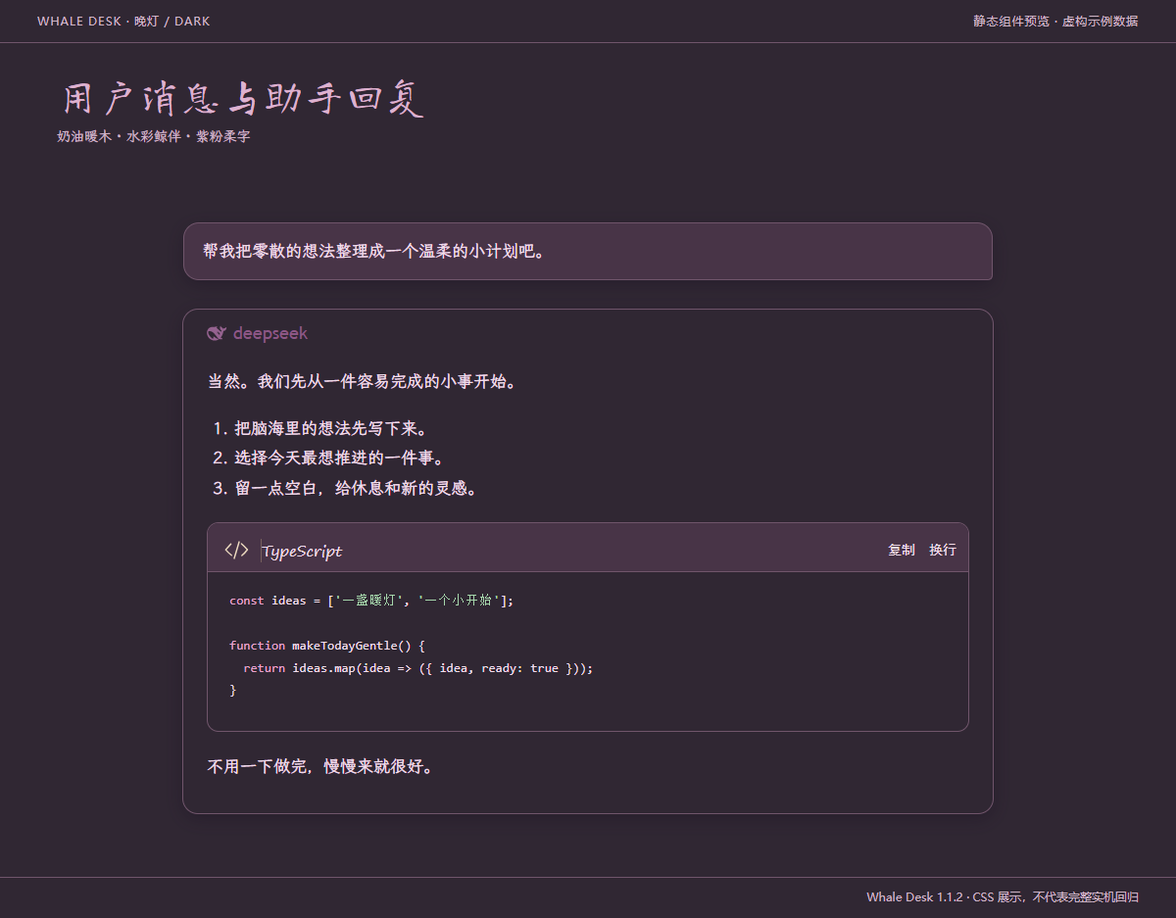
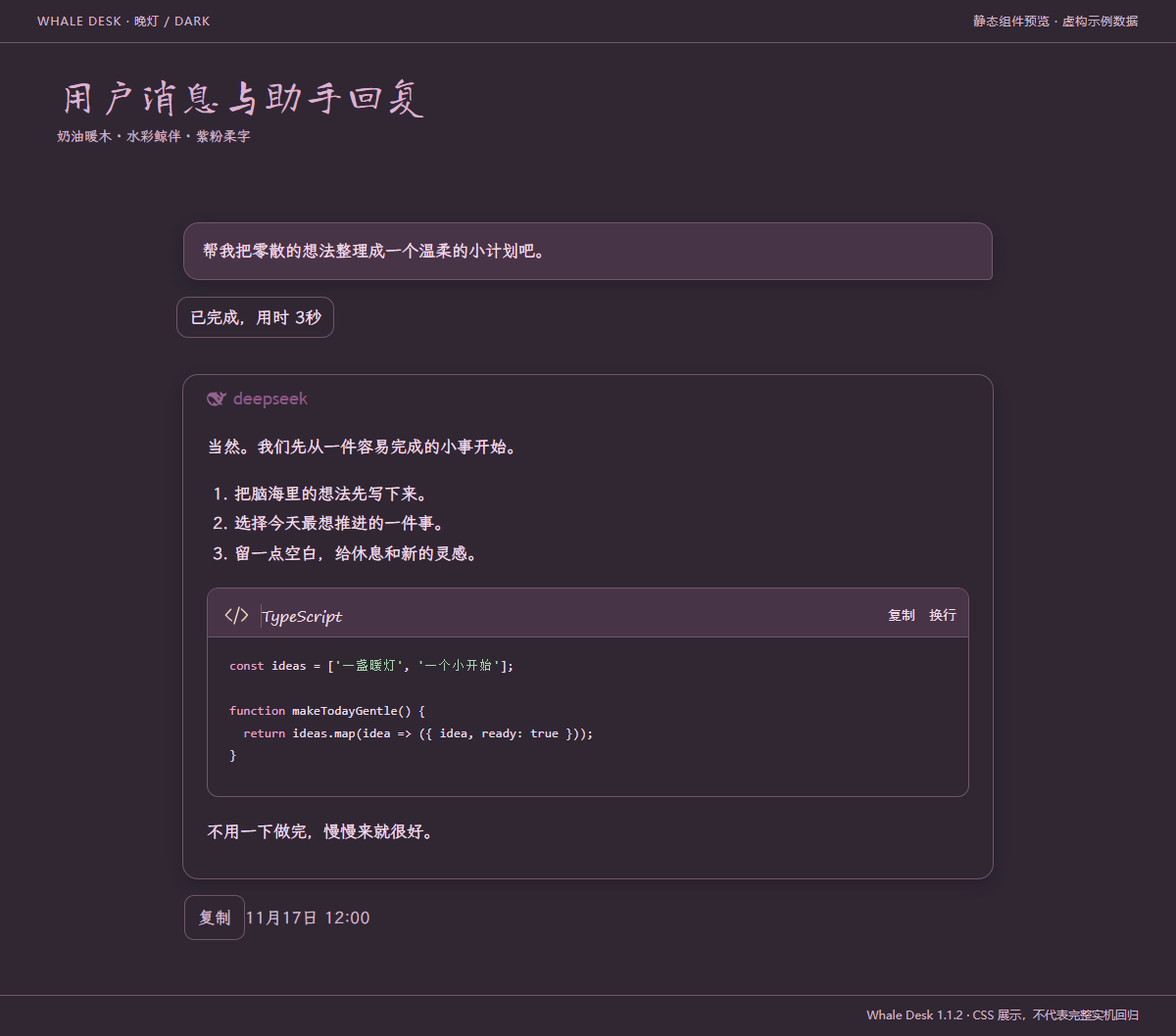
fix(skins): improve wallpaper contrast and refresh native review evidence

diff --git a/skins/whale-desk/patches.css b/skins/whale-desk/patches.css
@@ -6665,9 +6665,9 @@ html body:is([data-ds-dark-theme],:not([data-ds-dark-theme])) [data-conversation
  inset:0!important;background:url("assets/desk/home.png") center/100% 100% no-repeat!important;
  opacity:1!important;border-radius:0!important;filter:none!important;
 }
-html body[data-ds-dark-theme] [data-conversation-region="chat"]::before {background-image:linear-gradient(#241a2caa,#241a2cd9),url("assets/desk/home.png")!important;}
+html body[data-ds-dark-theme] [data-conversation-region="chat"]::before {background-image:linear-gradient(#241a2c66,#241a2c88),url("assets/desk/home.png")!important;}
 /* Soften wallpaper behind actual messages; keep the welcome illustration fully visible. */
-html body [data-conversation-region="chat"]:has([data-chat-flow-kind])::before {opacity:.22!important;}
+html body [data-conversation-region="chat"]:has([data-chat-flow-kind])::before {opacity:.45!important;}
 html body .Dc7zOa_headerBlank {min-height:40px!important;background:transparent!important;border:0!important;box-shadow:none!important;}
 html body:is([data-ds-dark-theme],:not([data-ds-dark-theme])) .Dc7zOa_header {background:var(--desk-paper)!important;border-bottom:1px solid var(--desk-line)!important;}
 html body .Dc7zOa_crumbCurrent {background:var(--desk-soft)!important;}
@@ -6967,7 +6967,7 @@ html body:is([data-ds-dark-theme],:not([data-ds-dark-theme])) [data-sidebar-righ
 /* 1.1.1: dark welcome must outrank the :has(headerBlank) wallpaper rule. */
 html body[data-ds-dark-theme][data-ds-dark-theme] [data-conversation-region="chat"]::before,
 html body[data-ds-dark-theme][data-ds-dark-theme] [data-conversation-region="chat"]:has(> .Dc7zOa_headerBlank)::before {
- background-image:linear-gradient(#241a2caa,#241a2cd9),url("assets/desk/home.png")!important;
+ background-image:linear-gradient(#241a2c66,#241a2c88),url("assets/desk/home.png")!important;
 }
 /* Keep long decorative copy away from native header controls on narrow windows. */
 html body:is([data-ds-dark-theme],:not([data-ds-dark-theme])) .Dc7zOa_headerBlank::after {
@@ -7015,4 +7015,23 @@ html body[data-ds-dark-theme] :is(.QSKnSa_frequency,.QSKnSa_status,.QSKnSa_fallb
 }
 @media(prefers-reduced-motion:reduce) {
  html body *,html body *::before,html body *::after {animation-duration:.01ms!important;animation-iteration-count:1!important;transition-duration:.01ms!important;scroll-behavior:auto!important;}
+}
+
+/* 1.1.3 review: preserve the illustration and separate native completion text from it. */
+html body[data-ds-dark-theme][data-ds-dark-theme] [data-conversation-region="chat"]:has([data-chat-flow-kind])::before {opacity:.78!important;}
+html body:is([data-ds-dark-theme],:not([data-ds-dark-theme])) [data-conversation-region="chat"] button[data-turn-process] {
+ position:relative!important;isolation:isolate;z-index:1;
+ width:fit-content!important;max-width:100%!important;min-height:32px;
+ padding:6px 12px!important;margin-block:8px!important;
+ background:var(--desk-paper)!important;color:var(--desk-ink)!important;
+ border:1px solid var(--desk-line)!important;border-radius:12px!important;
+ opacity:1!important;box-shadow:0 2px 8px #442b4410;
+}
+html body [data-conversation-region="chat"] button[data-turn-process]::before,
+html body [data-conversation-region="chat"] button[data-turn-process]::after {content:none!important;display:none!important;}
+
+/* Message timestamps and actions must not borrow contrast from the wallpaper. */
+html body:is([data-ds-dark-theme],:not([data-ds-dark-theme])) [data-conversation-region="chat"] .xD_KDq_actions {
+ background:var(--desk-paper)!important;color:var(--desk-muted)!important;
+ width:fit-content;max-width:100%;padding:4px 8px;border-radius:10px;
 }

diff --git a/skins/whale-desk/DESK-OVERRIDES.css b/skins/whale-desk/DESK-OVERRIDES.css
@@ -55,9 +55,9 @@ html body:is([data-ds-dark-theme],:not([data-ds-dark-theme])) [data-conversation
  inset:0!important;background:url("assets/desk/home.png") center/100% 100% no-repeat!important;
  opacity:1!important;border-radius:0!important;filter:none!important;
 }
-html body[data-ds-dark-theme] [data-conversation-region="chat"]::before {background-image:linear-gradient(#241a2caa,#241a2cd9),url("assets/desk/home.png")!important;}
+html body[data-ds-dark-theme] [data-conversation-region="chat"]::before {background-image:linear-gradient(#241a2c66,#241a2c88),url("assets/desk/home.png")!important;}
 /* Soften wallpaper behind actual messages; keep the welcome illustration fully visible. */
-html body [data-conversation-region="chat"]:has([data-chat-flow-kind])::before {opacity:.22!important;}
+html body [data-conversation-region="chat"]:has([data-chat-flow-kind])::before {opacity:.45!important;}
 html body .Dc7zOa_headerBlank {min-height:40px!important;background:transparent!important;border:0!important;box-shadow:none!important;}
 html body:is([data-ds-dark-theme],:not([data-ds-dark-theme])) .Dc7zOa_header {background:var(--desk-paper)!important;border-bottom:1px solid var(--desk-line)!important;}
 html body .Dc7zOa_crumbCurrent {background:var(--desk-soft)!important;}
@@ -357,7 +357,7 @@ html body:is([data-ds-dark-theme],:not([data-ds-dark-theme])) [data-sidebar-righ
 /* 1.1.1: dark welcome must outrank the :has(headerBlank) wallpaper rule. */
 html body[data-ds-dark-theme][data-ds-dark-theme] [data-conversation-region="chat"]::before,
 html body[data-ds-dark-theme][data-ds-dark-theme] [data-conversation-region="chat"]:has(> .Dc7zOa_headerBlank)::before {
- background-image:linear-gradient(#241a2caa,#241a2cd9),url("assets/desk/home.png")!important;
+ background-image:linear-gradient(#241a2c66,#241a2c88),url("assets/desk/home.png")!important;
 }
 /* Keep long decorative copy away from native header controls on narrow windows. */
 html body:is([data-ds-dark-theme],:not([data-ds-dark-theme])) .Dc7zOa_headerBlank::after {
@@ -405,4 +405,23 @@ html body[data-ds-dark-theme] :is(.QSKnSa_frequency,.QSKnSa_status,.QSKnSa_fallb
 }
 @media(prefers-reduced-motion:reduce) {
  html body *,html body *::before,html body *::after {animation-duration:.01ms!important;animation-iteration-count:1!important;transition-duration:.01ms!important;scroll-behavior:auto!important;}
+}
+
+/* 1.1.3 review: preserve the illustration and separate native completion text from it. */
+html body[data-ds-dark-theme][data-ds-dark-theme] [data-conversation-region="chat"]:has([data-chat-flow-kind])::before {opacity:.78!important;}
+html body:is([data-ds-dark-theme],:not([data-ds-dark-theme])) [data-conversation-region="chat"] button[data-turn-process] {
+ position:relative!important;isolation:isolate;z-index:1;
+ width:fit-content!important;max-width:100%!important;min-height:32px;
+ padding:6px 12px!important;margin-block:8px!important;
+ background:var(--desk-paper)!important;color:var(--desk-ink)!important;
+ border:1px solid var(--desk-line)!important;border-radius:12px!important;
+ opacity:1!important;box-shadow:0 2px 8px #442b4410;
+}
+html body [data-conversation-region="chat"] button[data-turn-process]::before,
+html body [data-conversation-region="chat"] button[data-turn-process]::after {content:none!important;display:none!important;}
+
+/* Message timestamps and actions must not borrow contrast from the wallpaper. */
+html body:is([data-ds-dark-theme],:not([data-ds-dark-theme])) [data-conversation-region="chat"] .xD_KDq_actions {
+ background:var(--desk-paper)!important;color:var(--desk-muted)!important;
+ width:fit-content;max-width:100%;padding:4px 8px;border-radius:10px;
 }

diff --git a/docs/NATIVE-PREVIEW.md b/docs/NATIVE-PREVIEW.md
@@ -2,41 +2,25 @@
 
 [项目首页](../README.md) · [完整测试记录](TESTING.md) · [静态组件图册](COMPONENTS.md) · [投稿状态](MARKET-SUBMISSION.md)
 
-更新于 2026-11-08，Whale Desk 1.1.2。以下图片来自 Windows DSH 0.2.1-rc.2 / Skin Center 0.4.8 的真实窗口，使用正式 `whale-desk` 目录。账户侧栏在保存前收起，图片未修图。浮动桌宠由独立插件提供，不包含在皮肤安装包中。
+2026-11-17，Whale Desk 1.1.3，Windows DSH 0.2.1-rc.2 / Skin Center 0.4.8。
+以下图片来自正式 `whale-desk` 目录正常重启后的真实窗口，1282 × 822；桌宠已关闭，账户及历史侧栏已收起，没有其他浮窗。JPEG 为原始捕获，未修图、未裁切。画面中的鲸鱼娘是皮肤背景插画。
 
-## 浅色恢复后的真实对话
+## 欢迎页
 
-![重启后浅色对话与代码](../evidence/native/light-after-user-restart.jpg)
-
-曾复现“点击浅色后回到深色”。用户重启 DSH 后恢复；随后执行浅色→深色→浅色，界面和保存配置同步更新，关闭设置后观察 88 秒仍保持浅色。这次恢复没有修改运行代码，尚未确定根因，也不能保证问题永不复发。遇到相同现象请按 [FAQ](FAQ.md#点击浅色后又自动回到深色) 排查。
-
-## 深色与模型菜单
-
-| 深色对话 | 模型菜单 |
+| 浅色 | 深色 |
 | --- | --- |
-| ![正式目录冷启动后的深色对话](../evidence/native/chat-dark-after-restart.jpg) | ![深色模型菜单](../evidence/native/chat-model-menu-dark.jpg) |
+| ![浅色欢迎页](../evidence/native/review-20261117/home-light.jpg) | ![深色欢迎页](../evidence/native/review-20261117/home-dark.jpg) |
 
-修复了浅色纹理覆盖深色对话背景和顶栏的问题，并在正常退出、重新启动后确认生效。模型菜单打开、Escape 关闭和推理等级 High→Low→High 已操作验证；这不代表逐一调用过全部模型。
+## 聊天页
 
-## 954 像素窄窗口
-
-![954 像素窗口中的对话和输入区](../evidence/native/narrow-chat-dark.jpg)
-
-窗口尺寸为 954 × 822。侧栏自动收起、手动展开、代码与输入卡重排、模型菜单开关均已操作。展开侧栏时模型按钮文字会截短，完整名称可在菜单读取。更窄尺寸、全部缩放比例和窄窗口实际发送未验收。
-
-## 停止输出与代码显示
-
-| 明确停止生成 | 停止后继续发送与代码换行 |
+| 浅色 | 深色 |
 | --- | --- |
-| ![界面显示已停止](../evidence/native/generation-stopped-dark.jpg) | ![新消息成功及代码换行](../evidence/native/after-stop-code-wrap-dark.jpg) |
+| ![浅色聊天页](../evidence/native/review-20261117/chat-light.jpg) | ![深色聊天页](../evidence/native/review-20261117/chat-dark.jpg) |
 
-180 行代码与表格生成完成；另一次长回复明确停止后，新消息正常完成。超长单行代码的换行开关与 [横向滚动](../evidence/native/code-scroll-dark.jpg) 已操作验证。新消息恢复成功不等于“重试上一轮”或网络重连通过。
+深色背景减轻遮罩，聊天背景保留更多插画；正文、代码、完成提示、时间和消息操作使用独立底色。对话使用先前创建的界面测试会话，本轮没有发起新的模型请求。
 
-## 使用时留意
+截图与运行文件 SHA-256 见 [捕获清单](../evidence/native/review-20261117/manifest.json)。市场正文内的图片与投稿分支证据文件使用同一份字节。
 
-- 桌宠的透明边缘也可能接收点击。窗口缩放、侧栏变化或重启后，检查它是否靠近发送、模型或弹窗按钮；拖到空白处即可重新核验。
-- 覆盖正在使用的 CSS 后，现有窗口可能保留旧样式；先结束任务，再正常重开 DSH。重新应用皮肤不保证立即刷新。
-- 图片展示某个时刻的界面；完整通过项、未测范围和上游测试失败以 [TESTING.md](TESTING.md) 为准。
-- [100 张组件图册](COMPONENTS.md) 采用虚构数据渲染，是静态外观示例，与本页原生操作截图分开记录。
+## 测试边界
 
-更多自动化、任务看板与对话框截图见 [原生证据说明](../evidence/native/README.md)。
+这些截图证明本机此版本的外观，不能证明所有版本、平台、动态桌宠或跨设备同步。历史原生测试保留在 [旧记录](../evidence/native/README.md)，旧截图不作为 1.1.3 的当前视觉证据。浅色自动回退曾在重启后恢复，尚未定位根因。

diff --git a/README.en.md b/README.en.md
@@ -6,13 +6,13 @@
 
 ## Current release and native captures
 
-Status checked 2026-11-17; skin version **1.1.2**. [Market PR #106](https://github.com/zhu1090093659/dsh-skins/pull/106) is closed, not merged or listed. The maintainer invited reopening after character permission evidence and clean current screenshots are supplied. The contributor confirms permission from Alphazerolan for the skin and illustrations; underlying character redistribution remains unverified. This repository is public. [CI and installation candidates](docs/CI-CD.md).
+Status checked 2026-11-17; skin version **1.1.3**. [Market PR #106](https://github.com/zhu1090093659/dsh-skins/pull/106) is closed, not merged or listed. The maintainer invited reopening after character permission evidence and clean current screenshots are supplied. The contributor confirms permission from Alphazerolan for the skin and illustrations; underlying character redistribution remains unverified. This repository is public. [CI and installation candidates](docs/CI-CD.md).
 
 | Light after user restart | Dark after original-path restart |
 | --- | --- |
-| ![Native light conversation](evidence/native/light-after-user-restart.jpg) | ![Native dark conversation](evidence/native/chat-dark-after-restart.jpg) |
+| ![Native light conversation](evidence/native/review-20261117/chat-light.jpg) | ![Native dark conversation](evidence/native/review-20261117/chat-dark.jpg) |
 
-These are native Windows DSH captures with the account sidebar hidden. The separate pet plugin is not bundled. A light-to-dark rollback recovered after the user restarted DSH; a subsequent light/dark/light round trip persisted, with light still visible after 88 seconds. No runtime code was changed for this recovery; the root cause remains unknown. [More native evidence](docs/NATIVE-PREVIEW.md) and [tested limits](docs/TESTING.md).
+These unedited 1.1.3 native Windows captures were taken with the pet disabled and account/history sidebar collapsed. Dark wallpaper masking is lighter; completion and action rows have opaque surfaces. The historical theme rollback recovered after restart; its root cause remains unknown. [Current captures](docs/NATIVE-PREVIEW.md) and [tested limits](docs/TESTING.md).
 
 ## Documentation
 
@@ -64,7 +64,7 @@ Ready-to-import examples: [compact writing](docs/examples/compact-writing.json),
 
 Derived from **DIY Journal 1.14.1** by [Alphazerolan](https://github.com/Alphazerolan/diy-journal-skin). The base implementation and assets match upstream commit `e68820404ee7183b0f9b15d7dd444b9f48e03071`; newer attribution documents have been incorporated. Fourteen inherited illustrations are recorded; the active home illustration is replaced, with the other 13 slots retained and reframed.
 
-CSS covers conversations, menus, task panels, settings and both theme palettes. This is source coverage, not a claim that every interaction is tested. Native loading, the header/brand, composer proportions and usage settings were observed in 1.1.0 on Windows / DSH 0.2.1-rc.2 / Skin Center 0.4.8. Version 1.1.2 adds setting-page identity, dark-surface and configuration-race fixes. Native smoke checks and isolated CSS/browser checks are documented in [TESTING.md](docs/TESTING.md); a complete cross-platform certification is not claimed.
+CSS covers conversations, menus, task panels, settings and both theme palettes. This is source coverage, not a claim that every interaction is tested. Native loading, the header/brand, composer proportions and usage settings were observed in 1.1.0 on Windows / DSH 0.2.1-rc.2 / Skin Center 0.4.8. Version 1.1.3 adds setting-page identity, dark-surface and configuration-race fixes. Native smoke checks and isolated CSS/browser checks are documented in [TESTING.md](docs/TESTING.md); a complete cross-platform certification is not claimed.
 
 Desktop pets are separate DSH packages and are not bundled here or in the upstream skin repository. The upstream visual editor is also a separate project targeting `diy-journal`. Our offline editor does not include its two-photo collage, tape editing or in-app settings entry. Default installation registers no JavaScript hooks; native CSS state fallbacks remain available.
 

diff --git a/README.md b/README.md
@@ -8,15 +8,15 @@
 
 ## 当前版本与实机效果
 
-更新于 **2026-11-08**，皮肤 **1.1.2**。这是 DSH 桌面皮肤，不是 DeepSeek 手机 App 主题。
+更新于 **2026-11-17**，皮肤 **1.1.3**。这是 DSH 桌面皮肤，不是 DeepSeek 手机 App 主题。
 
-**市场投稿：** [#106](https://github.com/zhu1090093659/dsh-skins/pull/106) 已关闭、未合并上架（2026-11-17 核对）；补齐角色许可依据与最新干净截图后可重新打开。Alphazerolan 的皮肤及配图使用许可已由贡献者确认，原角色再分发范围仍待核实。[投稿记录](docs/MARKET-SUBMISSION.md) · [CI/CD 与安装候选包](docs/CI-CD.md)。完整项目仓库已公开。
+**市场投稿：** [#106](https://github.com/zhu1090093659/dsh-skins/pull/106) 已关闭、未合并上架（2026-11-17 核对）；最新干净截图已补齐，角色许可依据完整后再重新打开。Alphazerolan 的皮肤及配图使用许可已由贡献者确认，原角色再分发范围仍待核实。[投稿记录](docs/MARKET-SUBMISSION.md) · [CI/CD 与安装候选包](docs/CI-CD.md)。完整项目仓库已公开。
 
 | 浅色 · 用户重启后恢复并复测 | 深色 · 正式目录冷启动后实测 |
 | --- | --- |
-| ![浅色真实对话](evidence/native/light-after-user-restart.jpg) | ![深色真实对话](evidence/native/chat-dark-after-restart.jpg) |
+| ![浅色真实对话](evidence/native/review-20261117/chat-light.jpg) | ![深色真实对话](evidence/native/review-20261117/chat-dark.jpg) |
 
-以上为 Windows DSH 的原生窗口截图，隐藏账户侧栏后保存；浮动桌宠属于另装插件。浅色曾出现自动回退，用户重启后恢复；随后浅色→深色→浅色及配置保存复测通过，88 秒观察未回退。未为此修改运行代码，根因仍未确认。[实机操作与更多截图](docs/NATIVE-PREVIEW.md) · [故障排查](docs/FAQ.md)。
+以上为 1.1.3 的原生窗口截图，关闭桌宠、收起账户和历史会话侧栏后直接保存，未修图。减轻深色遮罩，并为完成提示、时间和消息操作增加独立底色。[四张最新实机图](docs/NATIVE-PREVIEW.md) · [测试范围](docs/TESTING.md)。浅色自动回退的历史问题在重启后恢复，根因仍未确认。
 
 ## 从这里开始
 
@@ -70,7 +70,7 @@
 
 完整仓库可公开浏览和下载；仅安装皮肤也可查看 [公开皮肤文件与安装说明](https://github.com/Xtsaixuexi/dsh-skins/tree/feat/whale-desk/skins/whale-desk)。
 
-当前仓库版本为 **1.1.2**，包含设置错位、深色菜单和配置切换修复。优先下载下面的当前仓库 ZIP；旧的 v1.1.1 Release 保留原样。[查看验证范围](docs/TESTING.md)。
+当前仓库版本为 **1.1.3**，包含设置错位、深色菜单和配置切换修复。优先下载下面的当前仓库 ZIP；旧的 v1.1.1 Release 保留原样。[查看验证范围](docs/TESTING.md)。
 
 [下载 v1.1.1 预发布版](https://github.com/Xtsaixuexi/whale-desk-skin/releases/tag/v1.1.1)：仅安装请选择 `whale-desk-1.1.1.zip`；完整仓库包另含 DIY 工具和文档。
 
@@ -93,7 +93,7 @@
 | 设置配图 | 账号、通用、模型、插件、预设、归档、Web 插件、皮肤、宠物、工坊、使用统计 |
 | 主题与可访问性 | 浅色／深色配色、键盘焦点、窄屏规则；部分组件保留上游装饰 |
 
-以上是**代码与素材覆盖范围**。1.1.2 已补测正式目录冷启动、真实消息、停止与继续发送、长代码换行/滚动、任务页面及 954 px 窄窗口。11 项工具测试、同一套 42 项浏览器用例在三种 CSS 管线中通过；不能外推为全部宿主功能或跨平台已兼容，详见 [测试记录](docs/TESTING.md)。
+以上是**代码与素材覆盖范围**。1.1.3 复测了正式目录重启、浅深色欢迎页和聊天布局；11 项工具测试、同一套 44 项浏览器用例在三种 CSS 管线中通过。真实发送、停止、长代码滚动和窄窗口等是此前版本的历史测试，不等于本轮全部重测。详见 [测试记录](docs/TESTING.md)。
 
 ## 和 DIY 手账本是什么关系
 

diff --git a/skins/whale-desk/README.md b/skins/whale-desk/README.md
@@ -11,7 +11,7 @@ native sidebar, conversation and workspace layout.
 
 ## Install and update
 
-Skin manifest v2, version 1.1.2. Copy this whole directory to
+Skin manifest v2, version 1.1.3. Copy this whole directory to
 `$DSH_HOME/skins/whale-desk` (default: `~/.dsh/skins/whale-desk`), then choose
 Whale Desk in Settings > Skins. No build, Node.js or Python is needed to use it.
 Back up personal edits first. After replacing an active skin's files, switch to
@@ -23,13 +23,13 @@ the separate DSH pet plugin; this package does not bundle pet animations.
 
 ## Native captures and market status
 
-[Submission #106](https://github.com/zhu1090093659/dsh-skins/pull/106) is closed, not merged or listed (2026-11-17). Character permission evidence and clean current screenshots are still required. The contributor confirms Alphazerolan authorized use of the skin and illustrations; underlying character clearance remains unverified. See NOTICE.
+[Submission #106](https://github.com/zhu1090093659/dsh-skins/pull/106) is closed, not merged or listed (2026-11-17). Clean current screenshots are supplied; character permission evidence remains outstanding. The contributor confirms Alphazerolan authorized use of the skin and illustrations; underlying character clearance remains unverified. See NOTICE.
 
 | Native light | Native dark |
 | --- | --- |
-| ![Light after restart](https://raw.githubusercontent.com/Xtsaixuexi/dsh-skins/a6f98e166712511d47b2213359a227ccf59722a3/evidence/whale-desk/light-after-user-restart.jpg) | ![Dark after restart](https://raw.githubusercontent.com/Xtsaixuexi/dsh-skins/721e478d330eca734a7b560d3d57134be395129d/evidence/whale-desk/chat-dark-after-restart.jpg) |
+| ![Light](preview/native-chat-light.jpg) | ![Dark](preview/native-chat-dark.jpg) |
 
-These Windows DSH captures use the original skin ID, with account sidebar hidden. They are separate from the static catalog previews below. The pet is a separate plugin. Light selection once reverted to dark; a user restart restored operation and a subsequent light/dark/light round trip persisted for the observed interval. Its root cause remains unknown; see [TESTING.md](TESTING.md).
+Unedited 1.1.3 native captures, with the pet disabled and account/history sidebar collapsed. Current verification scope: [TESTING.md](TESTING.md).
 
 ## Preview and validation
 
@@ -56,3 +56,13 @@ clearance remains independently unverified and is disclosed for market review.
 This is not an official DeepSeek theme or an Android/iOS app theme.
 
 Update caveat: Skin Center 0.4.8 may retain old styles at the same path in an existing desktop window. Reapplying is not guaranteed to clear them. Reopen DSH after running tasks finish; original-path cold restart was tested successfully. If theme selection reverts, finish active tasks and restart normally; this is a recovery step, not a proven root-cause fix.
+
+## 来源与授权状态 / Source and permission record
+
+| 内容 / Content | 来源 / Source | 状态 / Status |
+| --- | --- | --- |
+| DIY Journal 1.14.1 皮肤与配图 | [Alphazerolan](https://github.com/Alphazerolan/diy-journal-skin) | Xtsaixuexi 于 2026-11-17 确认团队成员已授权使用；可核验的许可记录待补充 / contributor-reported team permission |
+| 原角色及女仆改造 | 上善 / ZipZipPipe，见 [NOTICE](NOTICE) 所列公开署名 | 原角色再分发许可未独立核验 / underlying character clearance outstanding |
+| Whale Desk 适配、新书桌与花饰 | Xtsaixuexi / OpenAI image generation | 项目自身贡献；不替代第三方角色许可 / project contribution does not grant third-party rights |
+
+版权与来源声明由贡献者负责提供、核验与更正，不转移给市场维护者；这不替代缺失的角色许可。Contributor responsibility is described in NOTICE. Do not treat this submission as market-approved.

diff --git a/skins/whale-desk/README.zh.md b/skins/whale-desk/README.zh.md
@@ -4,7 +4,7 @@
 
 **开发与改造作者：Xtsaixuexi。**
 
-Whale Desk 1.1.2 是 DSH 的非官方水彩小书桌皮肤，基于 Alphazerolan 的
+Whale Desk 1.1.3 是 DSH 的非官方水彩小书桌皮肤，基于 Alphazerolan 的
 [DIY Journal 1.14.1](https://github.com/Alphazerolan/diy-journal-skin) 改造。
 奶油暖木、紫粉柔字和鲸鱼娘配图保留原生的侧栏、对话区与工作台布局。
 
@@ -21,13 +21,13 @@ Whale Desk 1.1.2 是 DSH 的非官方水彩小书桌皮肤，基于 Alphazerolan
 
 ## 实机效果与投稿状态
 
-截至 2026-11-17，[投稿 #106](https://github.com/zhu1090093659/dsh-skins/pull/106) 已关闭，未合并上架；仍需补齐原角色许可依据与最新干净截图。贡献者已确认 Alphazerolan 授权使用皮肤和配图，具体记录及未核实范围见 NOTICE。
+截至 2026-11-17，[投稿 #106](https://github.com/zhu1090093659/dsh-skins/pull/106) 已关闭，未合并上架；最新干净截图已补充，仍需补齐原角色许可依据。贡献者已确认 Alphazerolan 授权使用皮肤和配图，具体记录及未核实范围见 NOTICE。
 
 | 浅色实机 | 深色实机 |
 | --- | --- |
-| ![重启后的浅色](https://raw.githubusercontent.com/Xtsaixuexi/dsh-skins/a6f98e166712511d47b2213359a227ccf59722a3/evidence/whale-desk/light-after-user-restart.jpg) | ![重启后的深色](https://raw.githubusercontent.com/Xtsaixuexi/dsh-skins/721e478d330eca734a7b560d3d57134be395129d/evidence/whale-desk/chat-dark-after-restart.jpg) |
+| ![浅色](preview/native-chat-light.jpg) | ![深色](preview/native-chat-dark.jpg) |
 
-截图来自正式皮肤 ID，隐藏账户侧栏后保存；下方皮肤列表图片另为静态示例。桌宠属于独立插件。曾出现选择浅色后自动回退，用户重启后恢复，随后浅色→深色→浅色与保存配置复测通过。根因未确认，详细范围见 [TESTING.md](TESTING.md)。
+1.1.3 原生窗口，关闭桌宠并收起账户/历史会话侧栏后直接保存，未修图。完整范围见[测试记录](TESTING.md)。
 
 ## 预览与验证
 
@@ -50,3 +50,13 @@ JSON 应用工具、详细说明书与组件图册。维护者修改 `DESK-OVERR
 插画仅限个人非商业使用；角色再分发授权尚未独立核实，已向市场审核披露。
 
 更新提示：0.4.8 的现有桌面窗口可能仍保留原路径旧样式。恢复默认后重应用不保证清除；请在后台任务结束后正常重开 DSH，再核验新版本。正式目录冷启动已经实测通过。主题选择回退时可在任务结束后正常重启排查；这属于恢复步骤，不代表根因已修复。
+
+## 来源与授权状态 / Source and permission record
+
+| 内容 / Content | 来源 / Source | 状态 / Status |
+| --- | --- | --- |
+| DIY Journal 1.14.1 皮肤与配图 | [Alphazerolan](https://github.com/Alphazerolan/diy-journal-skin) | Xtsaixuexi 于 2026-11-17 确认团队成员已授权使用；可核验的许可记录待补充 / contributor-reported team permission |
+| 原角色及女仆改造 | 上善 / ZipZipPipe，见 [NOTICE](NOTICE) 所列公开署名 | 原角色再分发许可未独立核验 / underlying character clearance outstanding |
+| Whale Desk 适配、新书桌与花饰 | Xtsaixuexi / OpenAI image generation | 项目自身贡献；不替代第三方角色许可 / project contribution does not grant third-party rights |
+
+版权与来源声明由贡献者负责提供、核验与更正，不转移给市场维护者；这不替代缺失的角色许可。Contributor responsibility is described in NOTICE. Do not treat this submission as market-approved.

diff --git a/INSTALL.md b/INSTALL.md
@@ -4,7 +4,7 @@
 
 ## 获取当前版本
 
-当前皮肤为 **1.1.2**。本项目完整仓库已公开，下方完整 ZIP 和历史 Release 可直接访问。仅需皮肤时可查看 [市场投稿分支内的皮肤目录](https://github.com/Xtsaixuexi/dsh-skins/tree/feat/whale-desk/skins/whale-desk)，其中提供独立安装说明、许可和验证记录。市场 [#106](https://github.com/zhu1090093659/dsh-skins/pull/106) 尚未合并，不应按“已上架”寻找安装入口。
+当前皮肤为 **1.1.3**。本项目完整仓库已公开，下方完整 ZIP 和历史 Release 可直接访问。仅需皮肤时可查看 [市场投稿分支内的皮肤目录](https://github.com/Xtsaixuexi/dsh-skins/tree/feat/whale-desk/skins/whale-desk)，其中提供独立安装说明、许可和验证记录。市场 [#106](https://github.com/zhu1090093659/dsh-skins/pull/106) 尚未合并，不应按“已上架”寻找安装入口。
 
 ## 选择下载内容
 
@@ -115,7 +115,7 @@ node scripts/configure.mjs --reset --skin "$env:USERPROFILE\.dsh\skins\whale-des
 
 ## 兼容性说明
 
-已观察环境为 Windows、DSH `0.2.1-rc.2`、Skin Center `0.4.8`。这是观察记录，不是宣称其他版本不能用，也不是承诺所有功能已测。当前仓库皮肤为 1.1.2；已完成的实机操作、自动化回归与未测范围见 [测试状态](docs/TESTING.md)。
+已观察环境为 Windows、DSH `0.2.1-rc.2`、Skin Center `0.4.8`。这是观察记录，不是宣称其他版本不能用，也不是承诺所有功能已测。当前仓库皮肤为 1.1.3；已完成的实机操作、自动化回归与未测范围见 [测试状态](docs/TESTING.md)。
 
 覆盖正在使用的皮肤后，如页面仍保留旧效果，先在皮肤中心恢复“官方默认”，再应用 Whale Desk。此操作通常会切换外观，但当前 0.4.8 桌面窗口仍可能保留同路径旧 CSS，不能视作升级验证通过。
 

diff --git a/docs/MARKET-SUBMISSION.md b/docs/MARKET-SUBMISSION.md
@@ -2,11 +2,13 @@
 
 ## 最新状态：2026-11-17
 
-PR #106 已关闭，未合并。维护者表示补齐原角色再分发许可依据与最新干净实机截图后可以重新打开。此前要求修改的记录仍有效。
+PR #106 仍关闭、未合并。1.1.3 已减轻暗色遮罩、保护完成提示和消息操作栏的文字对比度，并补充四张干净实机图。
 
-作者已确认 Alphazerolan 授权使用其皮肤和配图；已记录于 NOTICE，尚未提供覆盖原角色设计者的再分发依据。没有据此将全部授权标为完成。
+作者确认 Alphazerolan 授权使用其皮肤和配图，已在 NOTICE 和来源表记录；尚缺覆盖原角色设计者的可核验再分发许可。贡献者责任声明已加入 NOTICE。许可补齐后才重新打开原 PR 请求复评。
 
-旧市场 CI 显示 failure，但 API 返回零作业、零检查项，没有可定位的测试日志。投稿规则检查通过。主项目新增独立 CI/CD，详情见 [自动检查说明](CI-CD.md)；主项目 CI 通过不等于市场验收。
+投稿目录移除 DESK-OVERRIDES.css、TESTING.md 和 validation/，保留中英文说明、运行文件、素材、预览、许可。旧 evidence/whale-desk 内容精简为本轮四张 JPEG；保留这些文件是因为当前上游投稿规则要求正文每张图与 evidence/ 中提交文件字节一致，至少两张。完整测试和历史资料留在主项目，未更改上游规则。
+
+主项目独立 CI/CD 见 [自动检查说明](CI-CD.md)；它通过不等于市场验收。旧市场 CI 没有可用作业日志，新提交在 PR 重新打开后仍需维护者处理相关运行权限。
 
 ## 以下为 2026-11-08 历史记录
 

diff --git a/docs/CI-CD.md b/docs/CI-CD.md
@@ -9,7 +9,7 @@
 | 作业 | 内容 | 失败后 |
 | --- | --- | --- |
 | Files and tools · Ubuntu / Windows | 11 项配置工具测试；引用、素材哈希、预览清单、默认包检查 | 阻止生成候选包 |
-| Chromium regression | 锁定 Playwright 版本，运行 42 项隔离浏览器回归 | 保存 JSON 报告和失败截图，阻止生成候选包 |
+| Chromium regression | 锁定 Playwright 版本，运行 44 项隔离浏览器回归 | 保存 JSON 报告和失败截图，阻止生成候选包 |
 | Verified installation candidate | 从 Git 跟踪文件打包，检查包内引用、CRC 与逐文件字节一致性 | 不上传不完整安装包 |
 
 浏览器测试使用项目自己的虚构数据页面，不操作用户账号、不调用模型。
@@ -25,7 +25,7 @@
 
 Artifacts 保留 14 天，下载需要登录 GitHub。安装 ZIP 解压后得到 `whale-desk` 目录，按[安装说明](../INSTALL.md)放入 DSH 皮肤目录。
 
-候选包保留运行 CSS、素材、字体、预览、许可、来源表和中英文说明；不包含开发用 `DESK-OVERRIDES.css`、测试文档、`validation/`、聊天证据、配置器或独立 companion 应用。
+候选包保留运行 CSS、素材、字体、预览（含最新原生聊天图）、许可、来源表和中英文说明；不包含开发用 `DESK-OVERRIDES.css`、测试文档、`validation/`、历史聊天证据、配置器或独立 companion 应用。
 说明中指向测试文档的链接会改为对应提交的源码链接。包内 CSS 与素材保持原字节。
 
 `package-manifest.json` 记录来源提交、是否存在本地未提交修改、每个文件及 ZIP 的 SHA-256。

diff --git a/skins/whale-desk/TESTING.md b/skins/whale-desk/TESTING.md
@@ -1,5 +1,13 @@
 # Validation / 验证范围
 
+## 1.1.3 复审修复 · 2026-11-17
+
+11 项配置测试通过；44 项隔离浏览器用例分别覆盖源 CSS、Skin Center 0.4.8 和 0.4.16 转换。新增完成提示底色、文字边界、点击展开与时间操作栏底色检查。
+
+本机正常重启后检查浅深色欢迎页、原有聊天与长代码显示，并重拍无桌宠/浮窗的截图。没有重新调用模型，也没有宣称动态桌宠或手机同步通过。原生环境仍是 DSH 0.2.1-rc.2 / Skin Center 0.4.8。市场 PR 保持关闭，待原角色许可证据补齐。
+
+以下是此前版本的历史测试记录；不把旧截图当作 1.1.3 当前证据。
+
 Version 1.1.2; checked 2026-11-08 on Windows. This is a limited compatibility
 record, not a claim that every DSH workflow or host version has passed.
 

diff --git a/docs/TESTING.md b/docs/TESTING.md
@@ -1,5 +1,13 @@
 # 验证记录与剩余限制
 
+## 1.1.3 复审修复 · 2026-11-17
+
+11 项配置测试通过；44 项隔离浏览器用例分别覆盖源 CSS、Skin Center 0.4.8 和 0.4.16 转换。新增完成提示底色、文字边界、点击展开与时间操作栏底色检查。
+
+本轮浅色→深色→重启保持深色→浅色切换成功。本机正常重启后检查浅深色欢迎页、原有聊天与长代码显示，并重拍无桌宠/浮窗的截图。没有重新调用模型，也没有宣称动态桌宠或手机同步通过。原生环境仍是 DSH 0.2.1-rc.2 / Skin Center 0.4.8。市场 PR 保持关闭，待原角色许可证据补齐。
+
+以下是此前版本的历史测试记录；不把旧截图当作 1.1.3 当前证据。
+
 当前皮肤：1.1.2。最近验证日期：2026-11-08。
 
 ## 自动化结果
